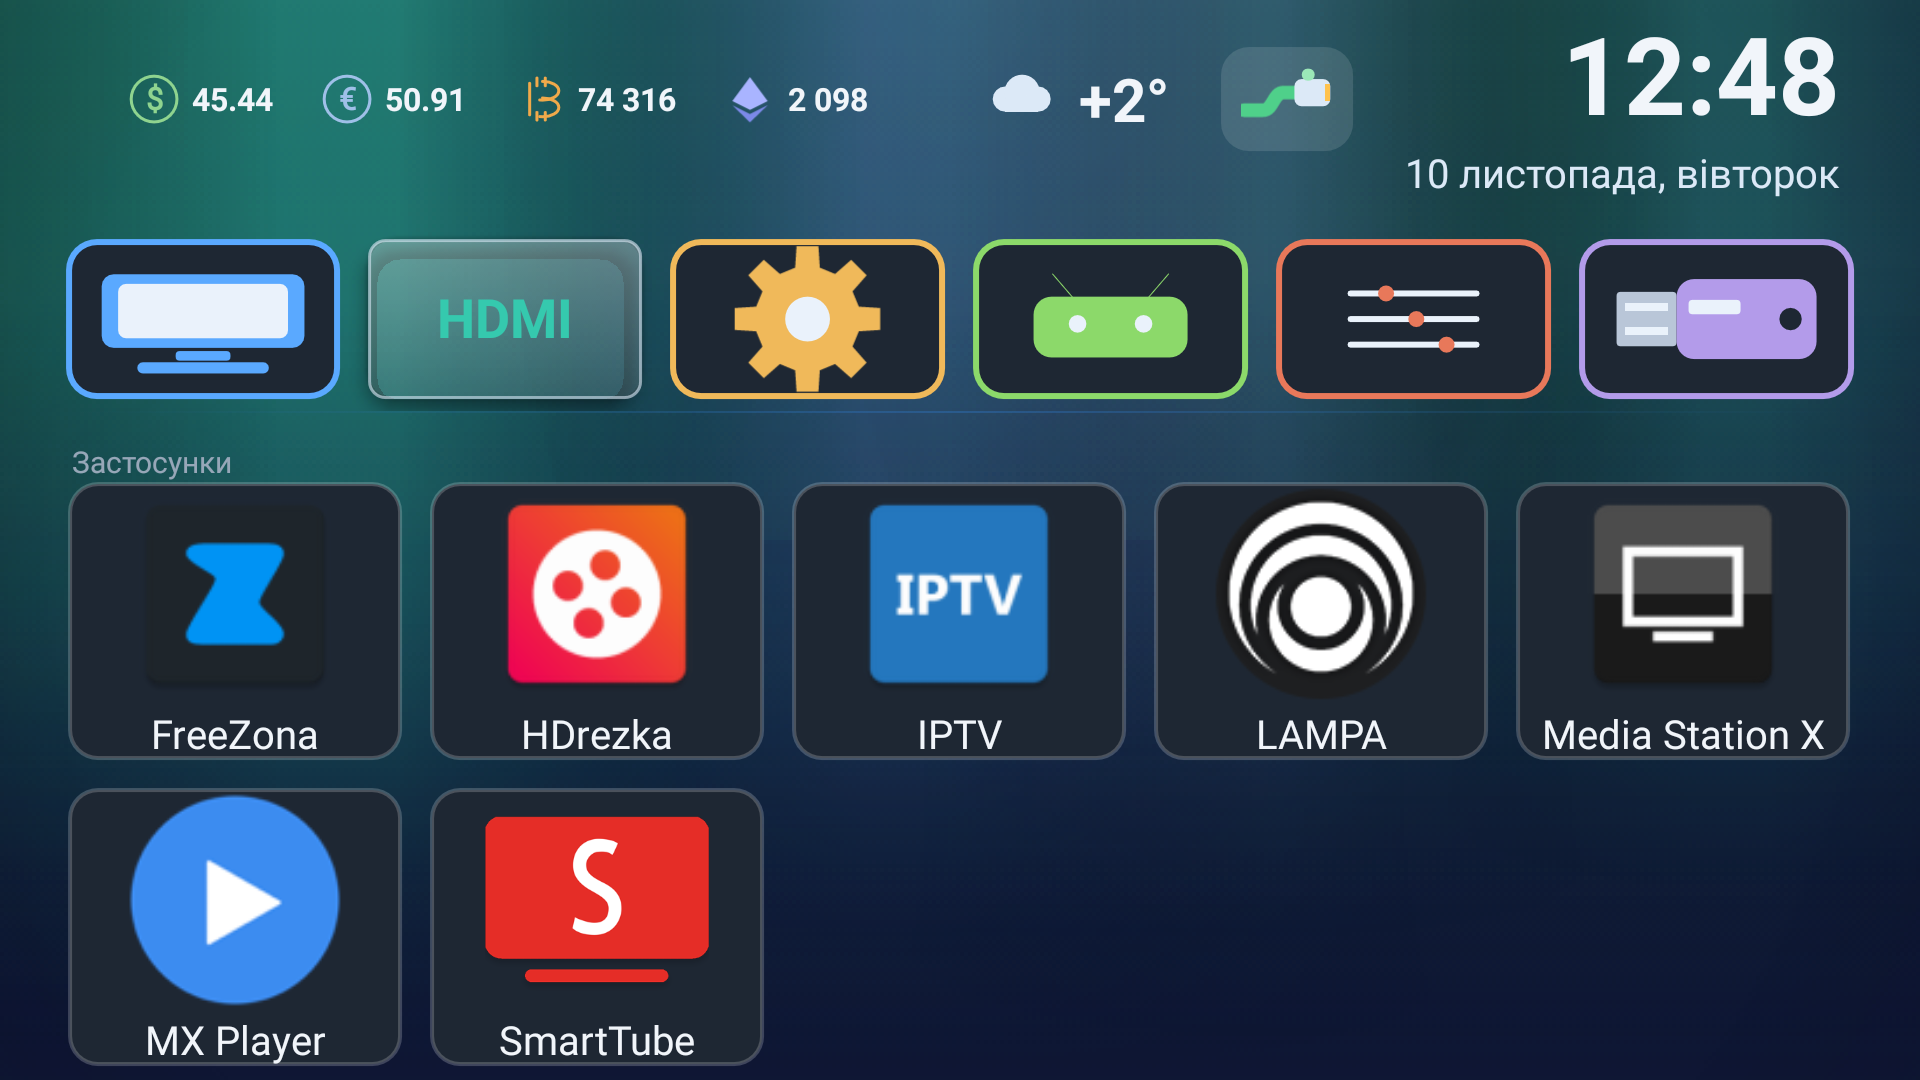
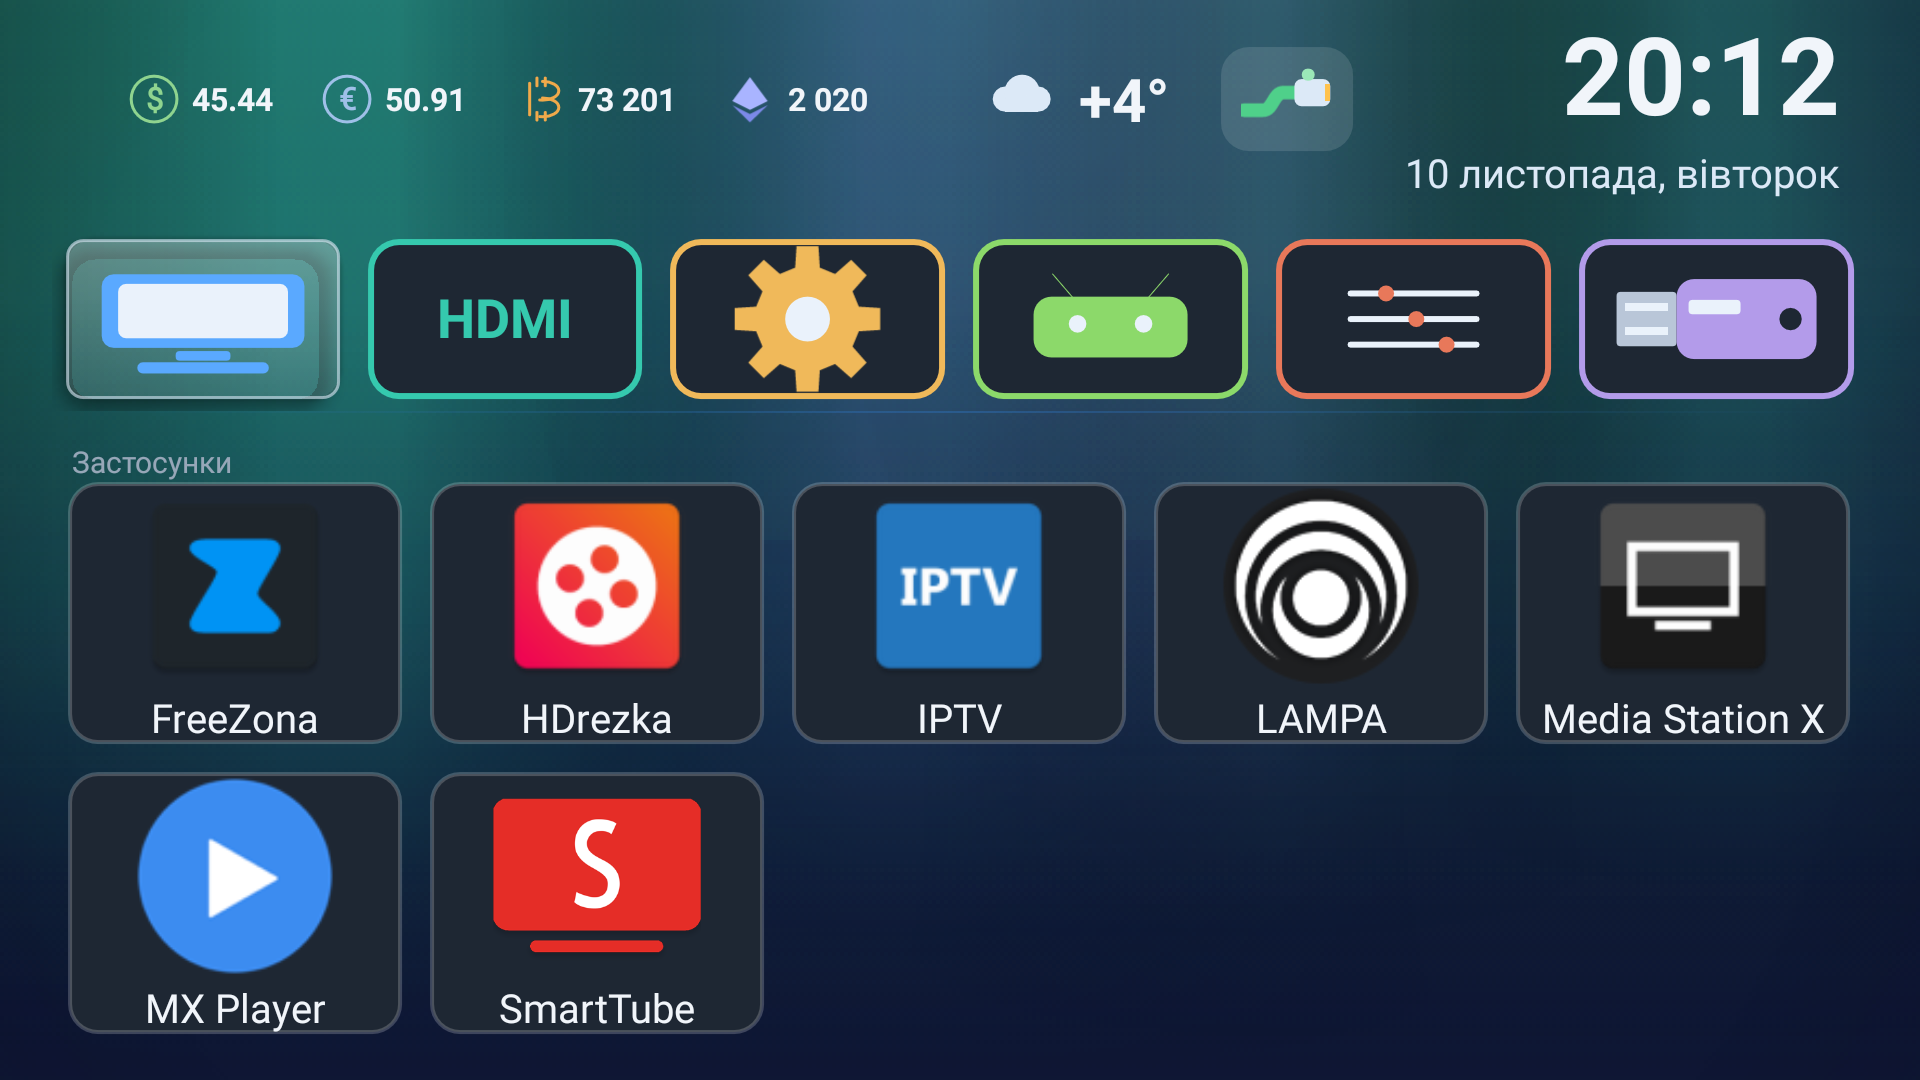
Версия 1.2: свежий скриншот главного экрана, описание приведено к текущему виду, убран устаревший кадр

diff --git a/README.md b/README.md
@@ -6,8 +6,8 @@
 (MStar / Kivi / Funshion, Android 5–7). Собран и проверен на **LG 43UK32G**
 (MStar, Android 6.0.1, API 23, 1920×1080, density 320).
 
-**Версия 1.1 — финальная.** Дальше проект не развивается: всё, что нужно такому ТВ,
-уже сделано и проверено на железе.
+**Версия 1.2.** Дальше проект не развивается: всё, что нужно такому ТВ, уже сделано
+и проверено на железе. Изменения 1.2 — в конце файла.
 
 Главная идея: лаунчер, который **не занимает память и не греет процессор**.
 Никаких библиотек, никакой разметки, ни одной картинки — вся графика и все иконки
@@ -19,7 +19,7 @@
 | Размер dex | **62 092 Б** после R8 |
 | Исходный код | **2 787** строк Java, 0 XML-разметок |
 | Внешние зависимости | **нет** (только `android.jar`) |
-| Память на телевизоре | **PSS ≈ 12,4 МБ** (private dirty ≈ 8 МБ) |
+| Память на телевизоре | **PSS ≈ 6,3 МБ** (кэш фона в ¼ разрешения) |
 | CPU в простое | **≈ 0%** (в `dumpsys cpuinfo` не появляется) |
 | Вендорский `com.kivi.launcher_v2` для сравнения | ≈ 90 МБ RSS |
 | Свободная память после подмены лаунчера | ≈ 253 МБ (было ≈ 45 МБ) |
@@ -32,10 +32,6 @@
 плитки быстрого доступа и сетка приложений:
 
 ![Главный экран](docs/screenshots/home.png)
-
-**Режим «Изменить»** — карточки получают рамку, ОК открывает меню приложения:
-
-![Режим Изменить](docs/screenshots/edit-mode.png)
 
 **Меню приложения** — удалить, скрыть или вернуть на экран (ничего не удаляется молча):
 
@@ -218,3 +214,23 @@ MIT — см. [LICENSE](LICENSE).
 
 Проект не связан с LG, Kivi, Funshion и MStar: названия упомянуты только для
 описания совместимости. Все товарные знаки принадлежат их владельцам.
+
+## Что нового в версии 1.2
+
+- **Часы крупнее** — 54 вместо 30, и при этом список приложений не сдвинулся вниз:
+  отступы у шапки и над плитками поджаты.
+- **Плитки первого ряда перерисованы** — сплошные яркие фигуры вместо тонких контуров,
+  у каждой свой цвет; плитка «Файлы» — флешка с металлическим разъёмом.
+- **Выделение — «стекло»** и у приложений, и у плиток: полупрозрачная заливка
+  с бликом сверху и светлая кромка.
+- **Значки приложений крупнее** — 104 точки, размер плитки при этом прежний.
+- **Надписи в плитках приложений** — 20 вместо 15.
+- **Значки валют крупнее** — 26 вместо 18.
+- **Погода переехала к часам**, название города убрано, значок погоды цветной и вдвое
+  крупнее: солнце, облако, дождь, снег, гроза — каждый своим цветом.
+- **Фон — северное сияние**: занавеси мягко растворяются книзу, чёрного нет,
+  кэш рисуется в ¼ разрешения.
+- **Страховка фокуса**: если выделение терялось (после выхода из приложения или
+  перестройки списка), оно возвращалось само.
+- **Плитка «ТВ»** принудительно включает цифровое ТВ через родной API телевизора.
+- **Кнопка «Змінити» убрана** — то же самое делает долгое нажатие на карточке.
